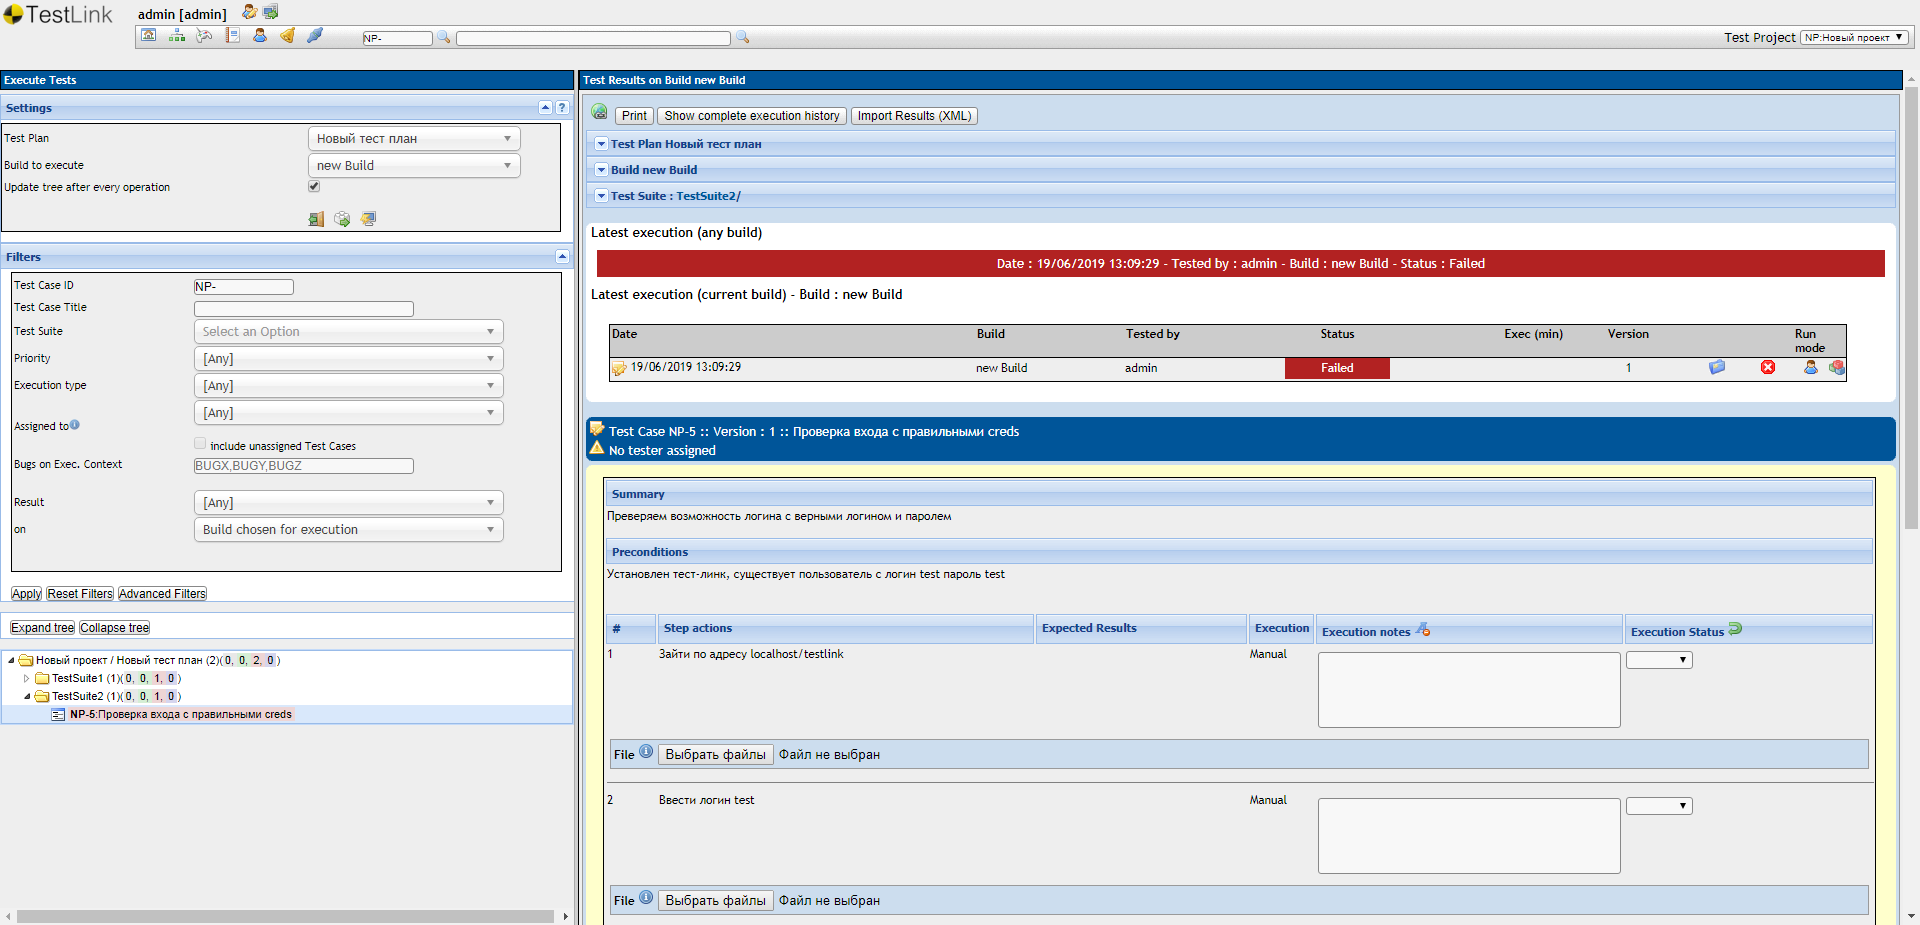
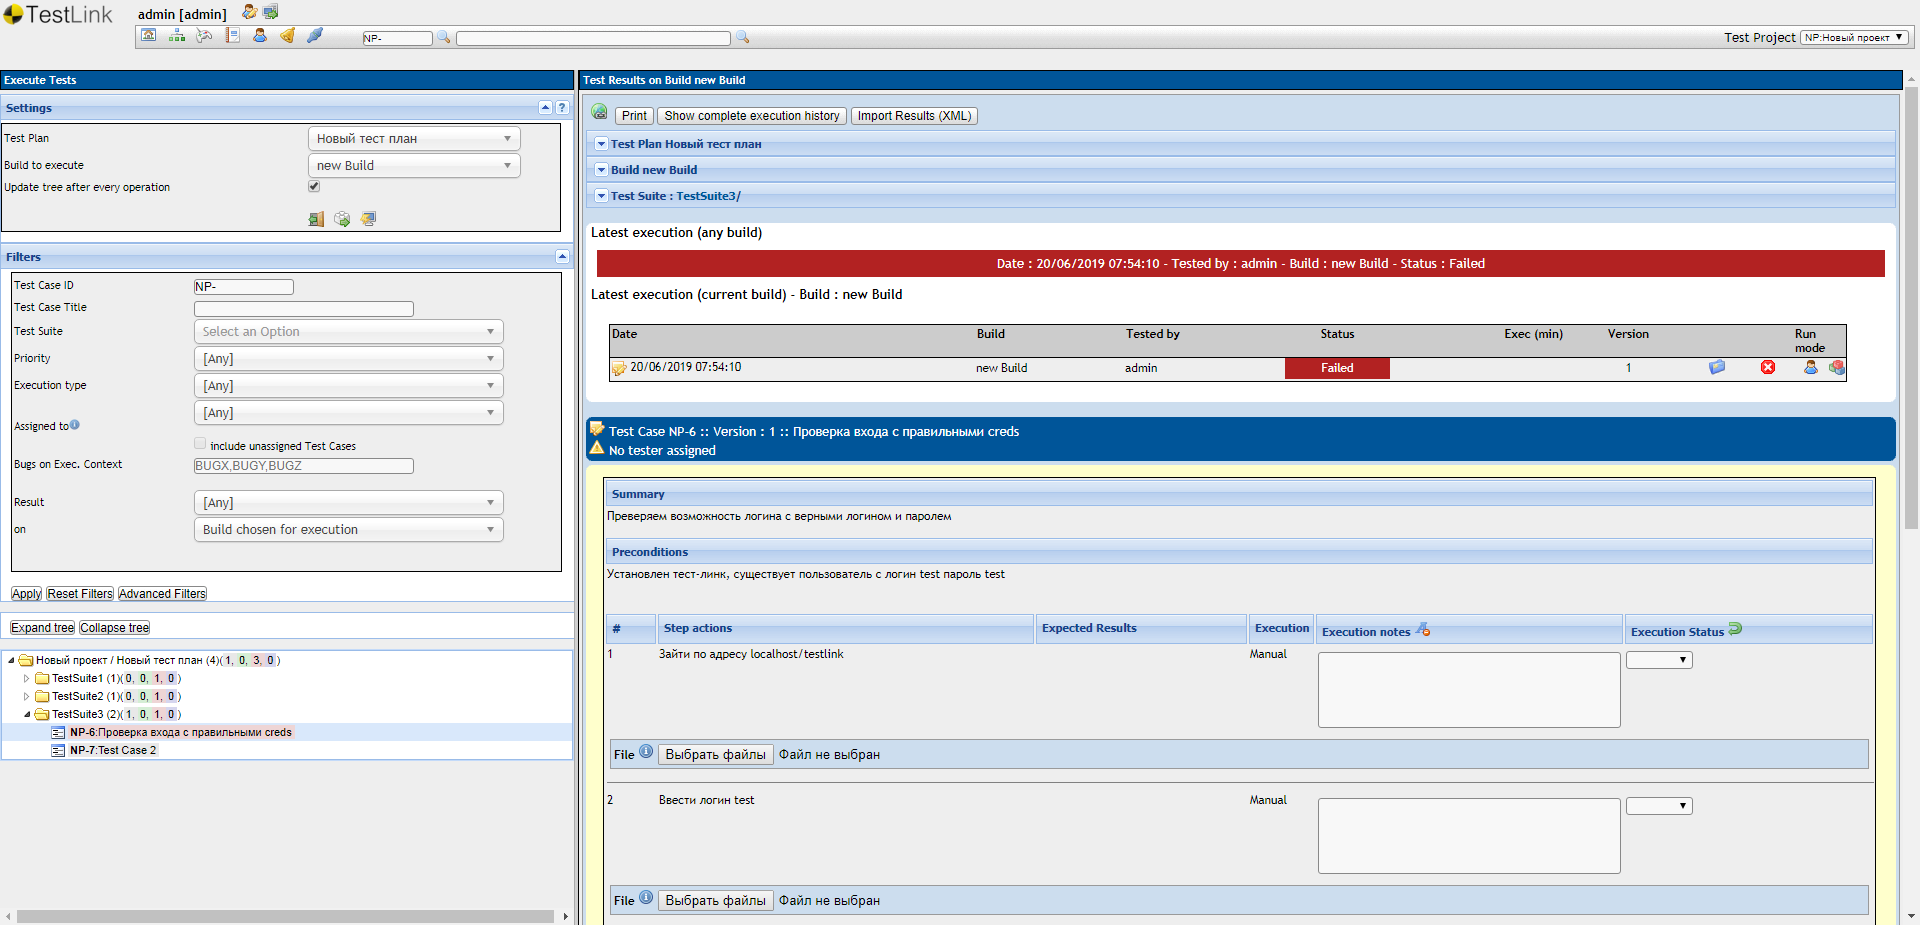
marking tests

Changed region(s): [[0.0, 0.7568, 0.3125, 0.8173], [0.5625, 0.2724, 0.5938, 0.3027]]

diff --git a/src/test/java/lesson3/testlink/models/NavigatorPage.java b/src/test/java/lesson3/testlink/models/NavigatorPage.java
@@ -20,8 +20,8 @@ public class NavigatorPage extends BasePage {
 
 
     public TestSuitePage selectTestSuit(String testSuiteName) throws InterruptedException {
-        switchToParentFrame();
-        sleep(3000);
+        wd.switchTo().defaultContent();
+        sleep(1000);
         switchToFrame(0);
         List<WebElement> testSuites = wd.findElements(By.cssSelector("ul[class=x-tree-node-ct] li"));
         for (WebElement testSuite : testSuites) {
@@ -37,16 +37,17 @@ public class NavigatorPage extends BasePage {
         WebDriverWait wait = new WebDriverWait(wd, 15);
         sleep(1000);
         wait.until(ExpectedConditions.frameToBeAvailableAndSwitchToIt(0));
-        List<WebElement> testSuites = wd.findElements(By.cssSelector("ul[class=x-tree-node-ct] li"));
+        List<WebElement> testSuites = wd.findElements(Locators.testTreeNode);
+
         String backgroundColor = "";
         for (WebElement testSuite : testSuites) {
             if (testSuite.getText().contains(testSuiteName + " (")) {
-                List<WebElement> arrow = testSuite.findElements(By.cssSelector("img[class*=\"-plus\"]"));
+                List<WebElement> arrow = testSuite.findElements(Locators.testTreeArrow);
                 if (arrow.size() > 0) {
                     arrow.get(0).click();
                 }
 
-                List<WebElement> testCases = testSuite.findElements(By.cssSelector("ul li a span"));
+                List<WebElement> testCases = testSuite.findElements(Locators.testTreeNodeTestcase);
                 for (WebElement testCase : testCases) {
                     if (testCase.getText().contains(testCaseName)) {
                         testCase.click();
@@ -73,11 +74,8 @@ public class NavigatorPage extends BasePage {
     public TestExecutePage selectTestCaseForExecute(String testSuiteName, String testCaseName, String testStatus) throws InterruptedException, IOException {
         log.info("selectTestCaseForExecute");
         String backgroundColor = selectTestCase(testSuiteName, testCaseName);
-        System.out.println(backgroundColor);
 
         if (!(testStatus.equals(""))) {
-            log.info(backgroundColor);
-            log.info(TestStatus.getTestTreeColorByStatus(testStatus));
             assert checkColor(backgroundColor, TestStatus.getTestTreeColorByStatus(testStatus));
         }
 

diff --git a/src/test/java/lesson3/testlink/SuitTest.java b/src/test/java/lesson3/testlink/SuitTest.java
@@ -1,39 +1,14 @@
 package lesson3.testlink;
 
 
+import lesson3.testlink.objects.Creds;
 import org.junit.jupiter.api.Test;
 import lesson3.testlink.models.*;
 import lesson3.testlink.objects.TestCaseObject;
 
 public class SuitTest extends BaseTest {
-
-
-    private final TestCaseObject testCase2 = new TestCaseObject("Test Case 2",
-            "Summary 2", "Preconditions 2");
-
-//    @Test
-//    void testCreateSuiteWithTestCases() throws InterruptedException {
-//        new LoginPage(wd).init(baseURI)
-//                .login("admin", "admin")
-//                .pressTestSpecificationLink()
-//                .pressTestSuiteSettings()
-//                .createNewTestSuite(testSuiteName, "Details")
-//                .selectTestSuit(testSuiteName)
-//                .pressSuiteSettingsButton()
-//                .pressAddTestCaseButton()
-//                .createTestCase(testCase1)
-//                .selectTestSuit("")
-//                .pressSuiteSettingsButton()
-//                .pressAddTestCaseButton()
-//                .createTestCase(testCase2);
-//    }
-
-
     @Test
-    void test() throws InterruptedException {
-
-
-
+    void testCreateTestCaseWithSteps() throws InterruptedException {
         new LoginPage(wd).init(baseURI)
                 .login("admin", "admin")
                 .pressTestSpecificationLink()
@@ -44,13 +19,13 @@ public class SuitTest extends BaseTest {
                 .pressAddTestCaseButton()
                 .createTestCase(testCase1)
                 .selectTestCaseForEdit(testSuiteName, testCase1.getName())
-                .createSteps(testCase1);
-//                .selectTestSuit(testSuiteName)
-//                .pressSuiteSettingsButton()
-//                .pressAddTestCaseButton()
-//                .createTestCase(testCase2)
-//                .selectTestCaseForEdit(testSuiteName, testCase2.getName())
-//                .createSteps();
+                .createSteps(testCase1)
+                .selectTestSuit(testSuiteName)
+                .pressSuiteSettingsButton()
+                .pressAddTestCaseButton()
+                .createTestCase(testCase2)
+                .selectTestCaseForEdit(testSuiteName, testCase2.getName())
+                .createSteps(testCase2);
     }
 
 }

diff --git a/src/test/java/lesson3/testlink/TestTestCase.java b/src/test/java/lesson3/testlink/TestTestCase.java
@@ -1,7 +1,6 @@
 package lesson3.testlink;
 
 import lesson3.testlink.enums.TestStatus;
-import lesson3.testlink.locators.Locators;
 import lesson3.testlink.models.LoginPage;
 import lesson3.testlink.objects.Creds;
 import org.junit.jupiter.api.Test;
@@ -12,7 +11,7 @@ public class TestTestCase extends BaseTest {
 
 
     @Test
-    public void test() throws InterruptedException, IOException {
+    public void testMarkingTests() throws InterruptedException, IOException {
         new LoginPage(wd).init(baseURI)
                 .login(Creds.login, Creds.password)
                 .pressTestExecute()
@@ -20,30 +19,19 @@ public class TestTestCase extends BaseTest {
                         testSuiteName,
                         testCase1.getName(),
                         "")
-                .checkStatusByColor()
+                .checkStatusByColor(TestStatus.NOT_RUN)
                 .setTestStatusPassed()
                 .selectTestCaseForExecute(
                         testSuiteName,
                         testCase1.getName(),
                         TestStatus.PASSED.getColorMaskInTree())
-                .checkStatusByColor()
+                .checkStatusByColor(TestStatus.PASSED)
                 .setTestStatusFailed()
                 .selectTestCaseForExecute(
                         testSuiteName,
                         testCase1.getName(),
-                        TestStatus.FAILED.getColorMaskInTree());
+                        TestStatus.FAILED.getColorMaskInTree())
+                .checkStatusByColor(TestStatus.FAILED);
     }
 
-
-    @Test
-    public void color() {
-        for (TestStatus ts : TestStatus.values())
-            System.out.println(ts + "   " + ts.getShortName());
-    }
-
-
-    @Test
-    public void ets() {
-        System.out.println(Creds.login);
-    }
 }

diff --git a/src/test/java/lesson3/testlink/models/TestExecutePage.java b/src/test/java/lesson3/testlink/models/TestExecutePage.java
@@ -33,18 +33,22 @@ public class TestExecutePage extends BasePage {
     }
 
 
-    public TestExecutePage checkStatusByColor() throws InterruptedException {
+    public TestExecutePage checkStatusByColor(TestStatus testStatus) throws InterruptedException {
         sleep(1000);
         switchToFrame(1);
-        String backgroundColor = wd.findElements(Locators.executeHistoryLastResult).get(0)
-                .getCssValue("background-color");
-        List<WebElement> element = wd.findElements(Locators.executeHistoryLastResult);
-        assert checkColor(backgroundColor, TestStatus.getTestColorByStatus(element.get(0).getText()));
+        WebElement testElement;
+
+        if (testStatus.equals(TestStatus.NOT_RUN)) {
+            testElement = wd.findElements(Locators.executeHistoryNotRun).get(0);
+        } else {
+            testElement = wd.findElements(Locators.executeHistoryLastResult).get(0);
+        }
+        String backgroundColor = testElement.getCssValue("background-color");
+        assert checkColor(backgroundColor, TestStatus.getTestColorByStatus(testElement.getText()));
         return this;
     }
 
     public NavigatorPage setTestStatusPassed() {
-        System.out.println(TestStatus.PASSED.getShortName());
         setTestStepResult(TestStatus.PASSED.getShortName());
         setTestResult(Locators.testPassed);
         switchToParentFrame();

diff --git a/src/test/java/lesson3/testlink/BaseTest.java b/src/test/java/lesson3/testlink/BaseTest.java
@@ -14,8 +14,12 @@ public class BaseTest {
     public static WebDriver wd;
 
     protected final String baseURI = "http://localhost:12325/testlink/";
-    protected final String testSuiteName = "TestSuite2";
+    protected final String testSuiteName = "TestSuite3";
     protected TestCaseObject testCase1 = new TestCaseObject();
+
+    protected TestCaseObject testCase2 = new TestCaseObject("Test Case 2",
+            "Summary 2", "Preconditions 2");
+
 
     @BeforeAll
     public static void setUp() {

diff --git a/src/test/java/lesson3/testlink/locators/Locators.java b/src/test/java/lesson3/testlink/locators/Locators.java
@@ -40,4 +40,9 @@ public class Locators {
 
     public static By executeHistoryLastResult = By.cssSelector("#execution_history tr td[class][title]");
 
+
+    public static By testTreeNode = By.cssSelector("ul[class=x-tree-node-ct] li");
+    public static By testTreeNodeTestcase = By.cssSelector("ul li");
+    public static By testTreeArrow = By.cssSelector("img[class*=\"-plus\"]");
+
 }

diff --git a/src/test/java/lesson3/testlink/objects/TestCaseObject.java b/src/test/java/lesson3/testlink/objects/TestCaseObject.java
@@ -1,7 +1,5 @@
 package lesson3.testlink.objects;
 
-import com.sun.org.apache.xerces.internal.impl.xpath.XPath;
-
 import java.util.ArrayList;
 import java.util.List;
 
